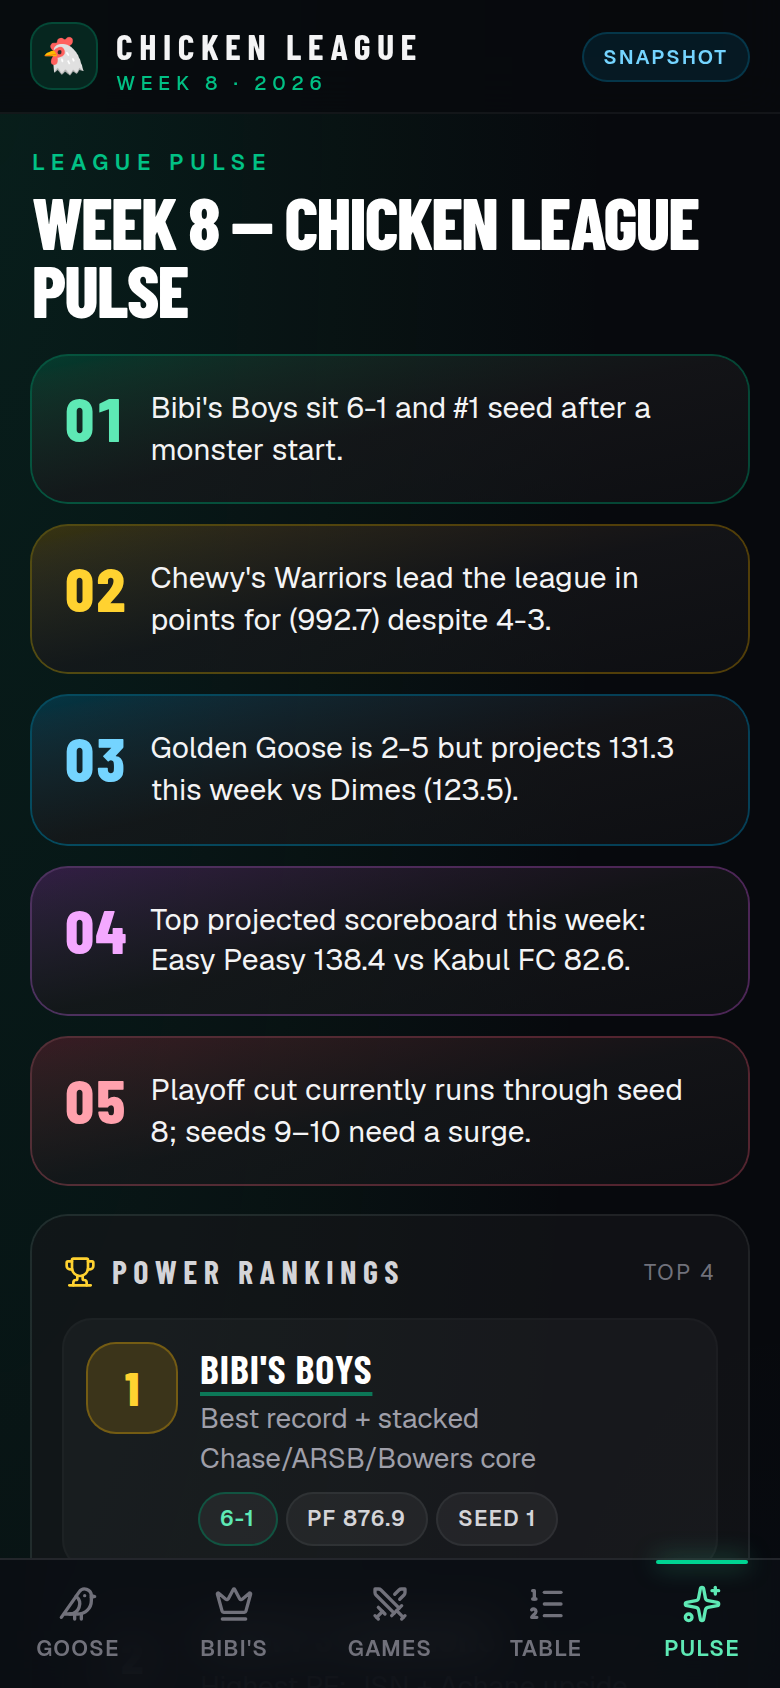
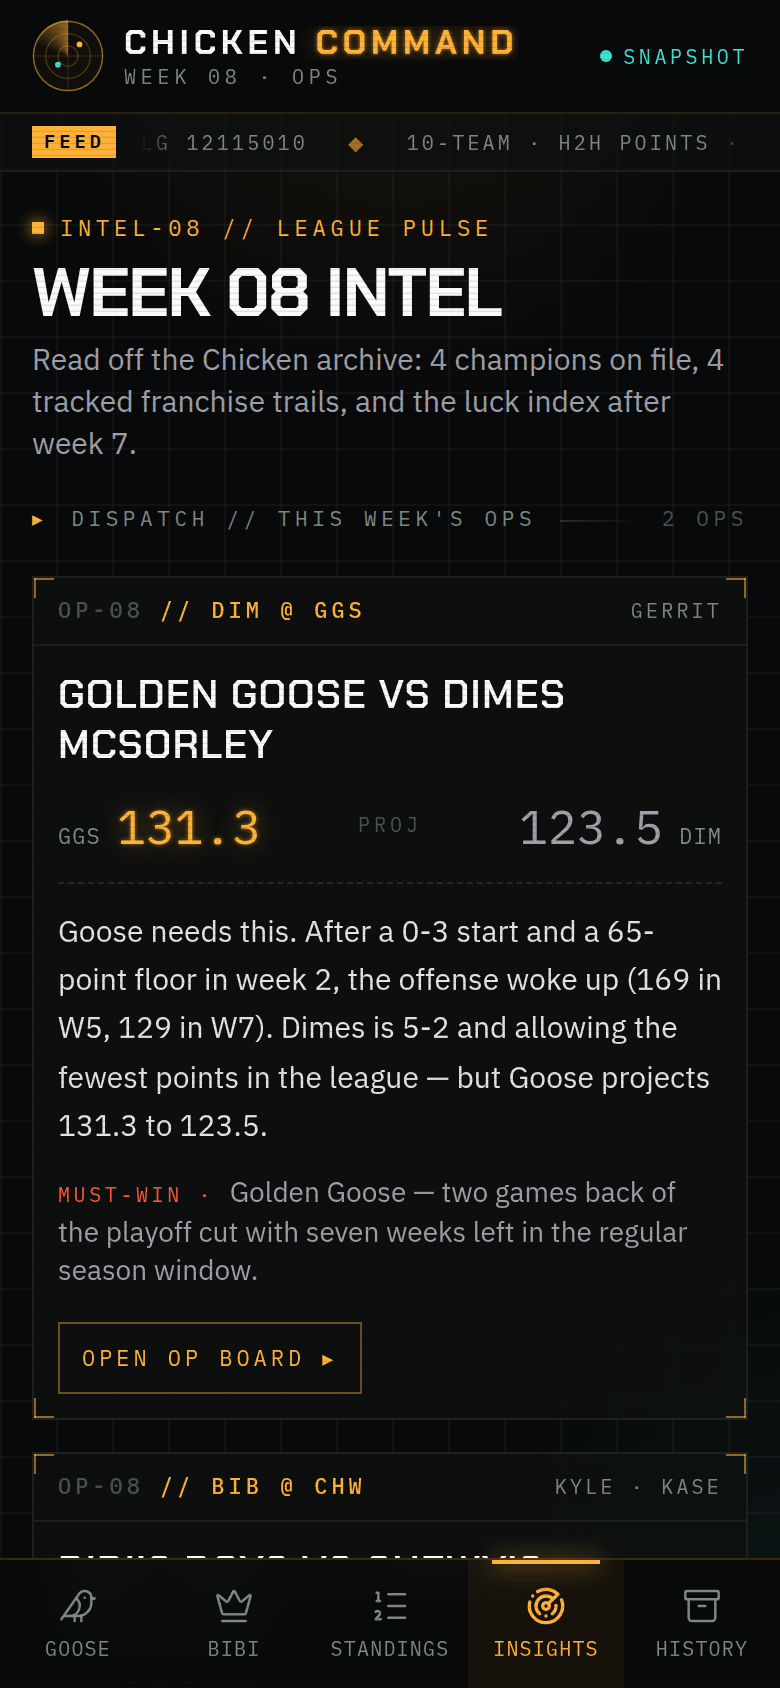
Document Chicken Command and refresh screenshots

diff --git a/README.md b/README.md
@@ -1,37 +1,52 @@
-# Chicken League · Week 8 board
+# Chicken Command · Week 08 Ops
 
-**Live:** [https://fantasy-board-demo.vercel.app](https://fantasy-board-demo.vercel.app) — share that link. Public, no login, works on iPhone.
+**Live:** [https://fantasy-board-demo.vercel.app](https://fantasy-board-demo.vercel.app). Share that link. It's public, needs no login, and works on iPhone.
 
-A phone-first, friend-shareable fantasy football app for the ESPN **Chicken** league (2026, week 8), built with Next.js (App Router). It reads a committed league snapshot, so it deploys to Vercel with **zero secrets**. The dark TV-board look is kept, and a full-screen TV mode is available on large screens.
+**Chicken Command** is the ops board for the private ESPN **Chicken** league (2026, week 8). It's a command-station console, not a scoreboard clone. Each matchup page leads with a brief. Score trails, a luck index, and a champions archive come from the league's own history. Everything is prerendered from committed JSON, so it deploys to Vercel with **zero secrets**.
 
-| Golden Goose (`/`) | Bibi's Boys (`/bibis`) | Standings | Insights |
+| Goose op (`/`) | Insights | History | Standings |
 | --- | --- | --- | --- |
-| ![Golden Goose board on iPhone](docs/mobile-home.png) | ![Bibi's Boys board on iPhone](docs/mobile-bibis.png) | ![Standings on iPhone](docs/mobile-standings.png) | ![Insights on iPhone](docs/mobile-insights.png) |
+| ![Golden Goose op board on iPhone](docs/mobile-home.png) | ![Insights on iPhone](docs/mobile-insights.png) | ![History on iPhone](docs/mobile-history.png) | ![Standings on iPhone](docs/mobile-standings.png) |
 
-![Golden Goose board on desktop](docs/desktop-home.png)
+![Golden Goose op board on desktop](docs/desktop-home.png)
 
 ## Pages
 
 | Route | What it shows |
 | --- | --- |
-| `/` | Gerrit's **Golden Goose** vs Dimes McSorley: projected scoreboard, injury-report callout, head-to-head starters, bench and IR. |
-| `/bibis` | Kyle's (KASE) **Bibi's Boys** vs Chewy's Warriors, same layout. |
-| `/standings` | Full league table: rank, record, PF/PA, point differential, playoff seed, and the playoff cut line after seed 8. |
-| `/insights` | Storylines from the snapshot, power rankings, scoring leaders, and point-differential bars. |
-| `/matchups` | Scoreboard cards for the featured week-8 matchups, linking to each board. |
+| `/` | Gerrit's **Golden Goose** vs Dimes McSorley. It opens with the **matchup brief** (story, must-win, edges, archive note). Below that are a projection readout with a margin gauge and a comparison to each team's season average, a **score trail** (weekly PF for weeks 1–7 plus a dashed week 8 projection, with the opponent overlaid), franchise dossiers, then head-to-head starters, bench and IR. |
+| `/bibis` | Kyle's (KASE) **Bibi's Boys** vs Chewy's Warriors, same op layout. |
+| `/standings` | League table with record, PF/PA, differential, **PF rank vs win rank**, and a **luck chip** (HOT, EVEN, or DUE). A labelled playoff cut sits after seed 8. |
+| `/insights` | Week 8 dispatches from the matchup briefs, **league pulse** signals and alerts, the **luck index** bars, a ceiling board (top single weeks), a threat board, and franchise signatures with mini trails. |
+| `/history` | Seasons on record (2020–2026), the **champions archive** for 2022–2025 as a phone timeline, an all-time **rings & finals** board, and **franchise arcs** for Goose, Bibi, Chewy and Dimes. Each arc has a season-by-season strip (champion, final, or file mention). |
+| `/matchups` | "Slate": the featured ops with projections and a one-line brief. It's in the desktop nav only. |
 | `/live` | The original polling board, which can read a public ESPN league (optional, not in the nav). |
 
-On phones, navigation is a bottom tab bar that respects the iPhone safe areas. From the `md` breakpoint up it moves into the sticky top bar. Every page is statically prerendered, and layouts were checked for horizontal overflow at 320, 390, and 1440 px widths. On `lg` screens and up, the boards show a **TV mode** button that goes full screen and hides the navigation.
+On phones the nav is a five-tab bottom bar (Goose · Bibi · Standings · Insights · History) that respects iPhone safe areas. From `md` up it moves into the top bar. A FEED ticker under the header cycles league facts and pulse headlines. On `lg` screens the op boards offer **Wall mode**, which goes full screen for a TV. Layouts are checked for horizontal overflow at 320, 390, and 1440 px.
+
+## Design system
+
+- **Palette:** graphite (`ink` and `panel`), amber phosphor `phos` for the focus team and alerts, cyan `sig` for the opponent and signals, and `hot` only for must-win and the playoff cut. The tokens are in `app/globals.css`.
+- **Type:** Chakra Petch for display, IBM Plex Mono for every label and readout, IBM Plex Sans for narrative text.
+- **Chrome:** corner-bracket frames (`hud-corners`), a plotting-grid background (`bg-console`), scanlines, and a radar mark. Every team has a three-letter call sign (GGS, BIB, CHW, DIM…).
+- **Primitives:** `components/league/hud.tsx` holds `Frame`, `PageHead`, `Tag`, `Readout`, `LuckChip`, `Radar`, and `Rule`. `components/league/trail.tsx` holds `ScoreTrail`, `WeekStrip`, and `MiniTrail`. Every trail shares one y-scale, so they compare directly.
+- **Motion:** the radar sweep, ticker, and blink all stop under `prefers-reduced-motion`.
 
 ## Data
 
-The single source of truth is [`data/league-snapshot.json`](data/league-snapshot.json): standings, the two featured matchups with starters and bench, and the insights. Team display names in it are already sanitized; keep them as they are. To update the board for a new week, replace that file and redeploy.
+Two committed files, both with sanitized display names (keep them that way):
 
-- `lib/league.ts` types the snapshot and maps each board to its focus team (`BOARDS`).
-- `GET /api/league` returns the full snapshot.
-- `GET /api/matchup/golden-goose` and `GET /api/matchup/bibis` return one matchup, with `focus` and `opponent` sides. Unknown slugs return `404`.
+- [`data/league-snapshot.json`](data/league-snapshot.json) holds the current week's standings, the two featured matchups with starters and bench, and the power list.
+- [`data/league-intel.json`](data/league-intel.json) holds champions, the all-time list, franchise arcs with `weekly2026` score trails, the luck index, matchup briefs, league pulse, and week 8 projections.
 
-The pages and the route handlers import the same loader, so pages are prerendered at build time instead of fetching their own API.
+How the code uses them:
+
+- `lib/league.ts` types the snapshot and maps each op board to its focus team (`BOARDS`).
+- `lib/intel.ts` types the intel and derives the rest: call signs, trail stats (median, ceiling, floor), the title board (titles and finals from the champions list), champion seeds, and per-franchise archive hits. Intel's short names, like "Easy Peasy", resolve to snapshot team ids.
+- `GET /api/league` returns the snapshot plus `intel`.
+- `GET /api/matchup/golden-goose` and `GET /api/matchup/bibis` return one matchup with its `focus` and `opponent` sides. Unknown slugs return `404`.
+
+To roll to a new week, replace both JSON files and redeploy.
 
 ### Optional ESPN live path
 
@@ -57,18 +72,21 @@ From the CLI (linked account): `npx vercel --prod`.
 ```
 app/
   layout.tsx                 fonts, metadata, viewport (safe-area aware)
-  (league)/layout.tsx        sticky top bar + bottom tab bar
+  (league)/layout.tsx        console chrome: top bar, FEED ticker, bottom tab bar
   (league)/page.tsx          / — Golden Goose board
   (league)/bibis/            /bibis — Bibi's Boys board
   (league)/standings/        /standings
   (league)/insights/         /insights
-  (league)/matchups/         /matchups
+  (league)/history/          /history
+  (league)/matchups/         /matchups (Slate)
   live/                      optional ESPN polling board
   api/league/                GET /api/league
   api/matchup/[slug]/        GET /api/matchup/:slug
   api/fantasy/               optional ESPN/mock feed for /live
-components/league/           nav, matchup board, chips, TV mode button
-data/league-snapshot.json    week snapshot (primary data source)
+components/league/           nav, HUD primitives, score trails, op board, wall mode
+data/league-snapshot.json    week snapshot (lineups, standings)
+data/league-intel.json       league intel (history, trails, luck, briefs, pulse)
 lib/league.ts                snapshot types + helpers
+lib/intel.ts                 intel types + derived stats
 lib/espn.ts                  optional public ESPN adapter
 ```
